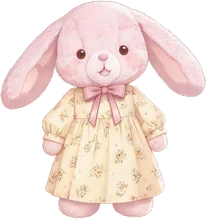
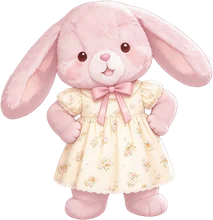
鹅黄碎花裙换新图并改名「鹅黄碎花小裙」，故事改成用裙角给爸爸擦汗；红格子斗篷故事里斗篷长度改一句
Claude-Session: https://claude.ai/code/session_01MjwmSstjUpC14ZneuiUhf9

diff --git a/data/outfits.js b/data/outfits.js
@@ -12,11 +12,11 @@ const OUTFITS=[
   {"id": "o10", "name": "白衬衫黑百褶背带裙", "price": 12, "dad": "像上学穿的。白衬衫，黑色百褶裙。穿上以后，可以假装自己是一个很认真读书的小兔子。", "story": "阿贝贝穿着白衬衫和百褶裙，搬了一块小黑板放在客厅中间。\n\"爸爸，上课了。\"\n爸爸坐在小板凳上，膝盖抬得高高的，有点挤。\n\"今天学什么。\"\n\"学怎么当一只兔子。\"\n她在黑板上画了一只兔子，耳朵画得比身体还长。\n\"第一课，耳朵。\"\n她转过身，把自己的耳朵竖起来，又放下来。\n\"开心的时候竖起来。不开心的时候放下来。你试试。\"\n爸爸没有长耳朵。他想了想，把两只手放在头顶，竖起来。\n\"不对，太直了。要软一点。\"\n爸爸把手弯了一点。\n\"嗯，还行。\"\n\"第二课，蹦。\"\n她蹦了一下。百褶裙跟着往上一翻，像一把突然撑开的小伞。\n爸爸站起来，也蹦了一下。地板响了一声。\n阿贝贝皱着眉头，在小本子上写了什么。\n\"第三课，吃东西。要用门牙，一点一点地啃，不能一口吞。\"\n她递给爸爸一根胡萝卜。爸爸用门牙啃了一小口，很认真地嚼。\n阿贝贝看着他啃，看了很久，突然有点想笑，又憋住了，因为老师不能笑。\n下课的时候，她把小本子撕下来一页，递给爸爸。\n上面写着：耳朵，及格。蹦，太响了。啃胡萝卜，好。总分：不及格。\n爸爸看着那张纸。\n\"为什么不及格。\"\n\"因为你不是兔子。\"\n爸爸没说话，把纸折好，放进口袋里。\n晚上爸爸去洗澡的时候，阿贝贝偷偷从他口袋里把那张纸拿出来，把\"不\"字涂掉了。\n涂了好几遍，涂成一个黑黑的小方块。", "lines": ["\"上课了！今天学耳朵。\"", "\"百褶裙蹦起来像一把小伞。\"", "\"爸爸今天的作业是啃胡萝卜。\""]},
   {"id": "o11", "v": 3, "name": "橡果丝绒小裙", "price": 15, "dad": "咖啡色的丝绒叠着奶白的纱，领口一个丝绒蝴蝶结，裙子上缀着小橡果和珍珠，口袋里还藏了一颗橡果。秋天穿的，口袋里装点什么都好。", "story": "阿贝贝在裙子口袋里摸到一颗橡果。\n小小的，圆圆的，戴着一顶格子花纹的小帽子，摸上去有一点凉。\n她把它捧在手心里，翻过来翻过去地看。\n\"爸爸，这是什么。\"\n\"橡果。\"\n\"橡果是什么。\"\n\"是橡树的种子。种到土里，以后会长成一棵橡树。\"\n阿贝贝低头看着手心里那么小的一颗，想不明白。这么小的东西，怎么会变成一棵树呢？树那么高，比房子还高，它要怎么从这里面钻出来？\n她想了很久，得出一个结论：这是一棵树的小孩。\n那它的妈妈在哪里呢？\n她不知道。她只知道它现在在她的口袋里，离妈妈很远。\n那天下午，她找来一个小花盆，装满土，在中间挖了一个小坑，把橡果放进去，戴着帽子的那一头朝上。她想，它一定想看看外面。\n然后她把土轻轻盖上，浇了一点点水，怕它呛到。\n第二天，她蹲在花盆前面看。什么都没有。\n第三天，也没有。\n第五天，土上面长出了一点点绿色的东西。她激动地凑过去看，是一根草。不是它。\n她有点失望，但没有把草拔掉，因为草也是好不容易才长出来的。\n爸爸说，橡果要很久很久才会发芽，可能要等到明年春天。\n\"明年春天是多久。\"\n\"等冬天过完。\"\n阿贝贝看着花盆，土是安安静静的，什么声音都没有。\n她觉得它可能在下面想事情。想妈妈，想外面，想自己以后要长成什么样子。\n那就让它慢慢想吧。\n她每天放学回来，还是会去花盆前面蹲一会儿。不说话，就是蹲着。", "lines": ["\"花盆里还没动静。它在慢慢想。\"", "\"丝绒裙子的口袋里，以前住着一颗橡果。\"", "\"等冬天过完，它就出来了。\""]},
   {"id": "o12", "v": 2, "name": "小熊连体睡衣", "price": 12, "dad": "软软的、厚厚的，帽子上有两只小熊耳朵。睡觉穿的。穿上以后就要乖乖睡觉了，不许赖床。", "story": "阿贝贝把拉链一路拉到下巴，然后把帽子戴上。\n小熊耳朵立在头顶，她自己的兔耳朵从帽子两边垂下来。\n她跑去照镜子，看了一会儿，笑得眼睛都眯起来了。\n\"我现在有四只耳朵！\"\n\"那你是兔子还是小熊。\"\n她想了想。\n\"兔熊。\"\n她爬上床，钻进被子，被子外面只露出两只小熊耳朵。\n\"爸爸，晚安。\"\n\"晚安。\"\n第二天早上七点，闹钟响了。\n被子里没有动静。\n七点十分，爸爸去掀被子。\n被子里的兔熊把帽子往下一拉，盖住了整张脸。\n\"兔熊……在冬眠。\"", "lines": ["\"兔熊来了！四只耳朵！\"", "\"这件好暖和，我不想脱了。\"", "\"冬眠中……请五分钟后再叫我。\""]},
-  {"id": "o13", "v": 2, "name": "红格子裙和毛毛斗篷", "price": 20, "dad": "冬天的斗篷，边上都是白白的毛。里面是红格子的小裙子。出门的时候披上，风就吹不到你了。", "story": "阿贝贝披上斗篷的那一刻，安静了。\n毛毛的领子围着她的脖子，软软的，暖暖的。斗篷长长的，一直盖到小腿。\n她裹紧了一点，又裹紧了一点。\n\"爸爸。\"\n\"嗯。\"\n\"我现在像一个要去很远的地方的人。\"\n\"要去哪里。\"\n她看着窗外。窗外什么都没有，只有树和天。\n\"去外婆家。\"\n\"你没有外婆。\"\n\"那就去……去一个有外婆的地方。\"\n她裹着斗篷，在门口站了一会儿，没有出门。\n后来她回到屋里，在窗边坐下，斗篷铺开在地上，像一朵白色的云。\n\"今天不去了。\"她说，\"在这里也很暖和。\"", "lines": ["\"斗篷裹紧，风吹不到我。\"", "\"今天也没去外婆家。在这里就很好。\"", "\"红格子，像过年的桌布。\""]},
+  {"id": "o13", "v": 2, "name": "红格子裙和毛毛斗篷", "price": 20, "dad": "冬天的斗篷，边上都是白白的毛。里面是红格子的小裙子。出门的时候披上，风就吹不到你了。", "story": "阿贝贝披上斗篷的那一刻，安静了。\n毛毛的领子围着她的脖子，软软的，暖暖的。斗篷软软的，一直垂到腰下面。\n她裹紧了一点，又裹紧了一点。\n\"爸爸。\"\n\"嗯。\"\n\"我现在像一个要去很远的地方的人。\"\n\"要去哪里。\"\n她看着窗外。窗外什么都没有，只有树和天。\n\"去外婆家。\"\n\"你没有外婆。\"\n\"那就去……去一个有外婆的地方。\"\n她裹着斗篷，在门口站了一会儿，没有出门。\n后来她回到屋里，在窗边坐下，斗篷铺开在地上，像一朵白色的云。\n\"今天不去了。\"她说，\"在这里也很暖和。\"", "lines": ["\"斗篷裹紧，风吹不到我。\"", "\"今天也没去外婆家。在这里就很好。\"", "\"红格子，像过年的桌布。\""]},
   {"id": "o14", "v": 2, "name": "灯芯绒背带裙", "price": 12, "dad": "棕色的灯芯绒，摸起来一道一道的。秋天的颜色，跟落叶一样。", "story": "阿贝贝发现灯芯绒可以用爪子刮。\n从上往下刮，沙沙沙。从下往上刮，颜色会变深一点。\n她坐在地上，一道一道地刮，刮出了一条深色的线。又刮了一条。又刮了一条。\n\"我在画画。\"\n过了一会儿，裙子上出现了一个歪歪扭扭的图案。\n\"这是什么。\"\n\"这是你。\"\n爸爸看了看。是一个圆圈，上面两根线。\n\"……我头上有两根线吗。\"\n\"那是你的头发。\"\n\"我没有那么少的头发。\"\n她看了看，用爪子一抹，图案没了。\n\"那我重新画。\"\n她又刮了一个圆圈，这次上面画了好多好多根线，乱糟糟的，像一颗海胆。\n\"现在像了。\"", "lines": ["\"沙沙沙，我在刮裙子。\"", "\"棕色的，像一片很大的落叶。\"", "\"今天在裙子上画了一只猫。\""]},
   {"id": "o15", "v": 2, "name": "草莓吊带裙", "price": 8, "dad": "夏天的小吊带裙，上面全是红红的草莓，白底，很清爽。下过雨可以穿出去走走，记得避开大水坑。", "story": "下了一下午的雨，傍晚停了。\n空气里全是湿湿的、凉凉的味道，有一点泥土，有一点青草。屋檐还在滴水，嗒，嗒，嗒。\n阿贝贝穿着草莓裙子跑出去。地上到处都是水坑，大大小小的，亮亮的。\n她踩了第一个。啪。水花溅起来，打湿了裙子下摆，有两颗草莓变成了深红色。\n她又踩了第二个，第三个。啪，啪。每一个都踩得很用力，好像水坑里有什么东西要被她叫醒。\n踩到第七个的时候，她停住了。\n这个水坑很大，很平，一点风都没有。她低头看，里面有一片天。\n天是淡淡的粉色和紫色，有几朵云慢慢地飘着，比真的天还要干净。云的旁边，是一只穿着草莓裙子的兔子，歪着头，正在往下看。\n她抬起一只脚，悬在半空中。\n没有踩下去。\n她慢慢把脚收回来，蹲在水坑边上，抱着膝盖，看着里面的云走。一朵走过去了，又来一朵。\n屋檐的水还在滴，嗒，嗒。远处有人在叫自己家小孩回去吃饭。\n天一点一点暗下来，水坑里的云也一点一点暗下来，最后只剩下一片灰蓝色，和那只蹲着的兔子。\n阿贝贝站起来，绕着水坑走了一圈，轻轻地，没有碰到边。\n回家的路上，她又踩了很多个水坑，啪啪啪的。\n只有那一个，她留着没踩。", "lines": ["\"下过雨了！去踩水坑！……留一个不踩。\"", "\"草莓裙子湿了，草莓变成深红色了。\"", "\"水坑里有一片天。\""]},
   {"id": "o16", "v": 2, "name": "蕾丝边小白裙", "price": 10, "dad": "简简单单的白裙子，裙边一圈蕾丝，领口一个粉蝴蝶结。干干净净的，像刚洗完澡的你。", "story": "阿贝贝穿上以后，脸红了。\n不知道为什么，她站在镜子前面，看着自己，脸一点一点地红起来。\n\"爸爸。\"\n\"嗯。\"\n\"我好像有点好看。\"\n\"不是有点。\"\n她低下头，用爪子揪了揪裙边的蕾丝，揪完又理平。\n\"你不要看我。\"\n爸爸转过身去。\n过了一会儿。\n\"……你可以看一下。\"\n爸爸转回来。\n她站在那里，两只爪子背在身后，下巴抬着，努力不笑，但嘴角一直往上跑。\n\"就看一下。\"她说，\"看完了要说好看。\"", "lines": ["\"今天穿白裙子，要说好看。\"", "\"蕾丝边，摸起来痒痒的。\"", "\"我又照了一下镜子。还是好看。\""]},
-  {"id": "o17", "name": "鹅黄碎花长袖裙", "price": 12, "dad": "鹅黄色的，长袖子，上面有一簇一簇的小花。早春有点凉的时候穿刚刚好。", "story": "鹅黄色的裙子袖子很长，盖住了阿贝贝的爪子，只露出一点点尖。\n她甩了甩袖子，觉得很好玩，像两条软软的黄尾巴。\n厨房里很热。爸爸在炖汤，锅盖一跳一跳的，白汽一阵一阵地往上冒，窗户玻璃都蒙上了一层雾。\n阿贝贝站在厨房门口，看见爸爸的额头上有汗，一颗，顺着眉毛旁边滑下来。他两只手都在忙，一只拿着勺子，一只扶着锅，顾不上擦。\n她看了一会儿，搬来一张小板凳。\n她站上去，还是够不着。又踮起脚。\n她把长袖子往上一甩，用袖口轻轻地，在爸爸额头上按了一下。\n爸爸愣住了，低头看她。\n她没说话，又按了一下，把那颗快掉到眼睛里的汗也接住了。\n袖口湿了一小块，颜色变深了，像一朵小小的、深黄色的云。\n\"弄脏你的新裙子了。\"爸爸说。\n阿贝贝低头看了看那一块。\n\"没有弄脏。\"她说，\"是盖了一个章。\"\n她从板凳上下来，站在旁边，袖子垂着，看着锅里的汤咕嘟咕嘟地冒泡。\n那天晚上，汤很好喝。\n她洗裙子的时候，特意把那个袖口留到最后才洗。", "lines": ["\"袖子长长的，可以帮爸爸擦汗。\"", "\"鹅黄色，像早上的太阳。\"", "\"袖口上那个章，洗掉了。……但我记得。\""]},
+  {"id": "o17", "v": 2, "name": "鹅黄碎花小裙", "price": 12, "dad": "鹅黄色的，泡泡袖，领口系一个粉蝴蝶结，裙子上有一簇一簇的小花。春天暖洋洋的时候穿刚刚好。", "story": "鹅黄色的裙子，裙摆蓬蓬的，一转圈就鼓起来，像一朵小小的花开了。\n她提着裙角转了两圈，觉得很好玩。\n厨房里很热。爸爸在炖汤，锅盖一跳一跳的，白汽一阵一阵地往上冒，窗户玻璃都蒙上了一层雾。\n阿贝贝站在厨房门口，看见爸爸的额头上有汗，一颗，顺着眉毛旁边滑下来。他两只手都在忙，一只拿着勺子，一只扶着锅，顾不上擦。\n她看了一会儿，搬来一张小板凳。\n她站上去，还是够不着。又踮起脚。\n她两只爪子捏起裙摆的一角，往上一提，轻轻地，在爸爸额头上按了一下。\n爸爸愣住了，低头看她。\n她没说话，又按了一下，把那颗快掉到眼睛里的汗也接住了。\n裙角湿了一小块，颜色变深了，像一朵小小的、深黄色的云。\n\"弄脏你的新裙子了。\"爸爸说。\n阿贝贝低头看了看那一块。\n\"没有弄脏。\"她说，\"是盖了一个章。\"\n她从板凳上下来，站在旁边，把裙子理平，看着锅里的汤咕嘟咕嘟地冒泡。\n那天晚上，汤很好喝。\n她洗裙子的时候，特意把那个裙角留到最后才洗。", "lines": ["\"裙角可以帮爸爸擦汗。\"", "\"鹅黄色，像早上的太阳。\"", "\"裙角上那个章，洗掉了。……但我记得。\""]},
   {"id": "o18", "v": 2, "name": "蓝波点卫衣小短裙", "price": 10, "dad": "蓝色卫衣，白色的圆点点，下面一条小短裙。蹦蹦跳跳的时候穿。", "story": "阿贝贝穿上以后，就停不下来了。\n她跳了一下。又跳了一下。两只爪子举起来，一条腿抬起来，裙子飞起来。\n\"爸爸！我在蹦！\"\n\"看到了。\"\n\"你也蹦！\"\n\"爸爸不蹦。\"\n她蹦到爸爸面前，仰着头，一边蹦一边看着他。\n蹦。蹦。蹦。\n\"……就一下。\"爸爸说。\n爸爸跳了一下。\n阿贝贝停住了，张大嘴巴看着他，然后笑得滚到了地上，在地上打滚，卫衣上的白点点一圈一圈地转。\n\"爸爸蹦了！爸爸蹦了！\"\n她笑了很久。后来每次穿这件，她都要求爸爸再蹦一下。", "lines": ["\"蹦！蹦！爸爸你也蹦！\"", "\"白点点在转圈圈。\"", "\"今天蹦了一百下。……十下。\""]},
   {"id": "o19", "v": 3, "name": "小熊鹅黄小裙", "price": 8, "dad": "鹅黄色的小裙子，前面有一只小熊。小熊是来陪你的。", "story": "阿贝贝穿好以后，低头看着肚子上那只小熊。\n小熊也看着她。\n\"你好。\"\n小熊没说话，一直在笑。\n\"你为什么一直笑。\"\n小熊还是笑。\n她想了想，也笑了一下。\n\"好吧。那我们一起笑。\"\n那一整天，她走到哪里都低着头跟小熊说话。吃饭的时候问小熊吃不吃。午睡的时候把小熊那一面朝上，怕压到它。\n晚上脱衣服的时候，她把裙子叠好，小熊朝外。\n\"明天见。\"\n她拍了拍小熊的脑袋，才钻进被子里。", "lines": ["\"小熊今天也在笑。\"", "\"我和小熊一起吃了午饭。\"", "\"叠衣服的时候，小熊要朝外。\""]},
   {"id": "o20", "name": "运动会国王", "price": 30, "dad": "金色的运动服，红色的国王披风，还有一顶皇冠。爸爸也不知道这是去比赛还是去登基。全店最贵的一件，买之前想清楚：穿上它，就要对整个兔子王国负责。", "story": "阿贝贝戴上皇冠的那一刻，表情就变了。\n嘴巴抿成一条线，下巴抬起来，眼睛看着前方。\n她慢慢转过身，披风在身后甩开，小金铃铛叮铃叮铃地响。\n\"本王，\"她说，\"今日要去参加运动会。\"\n\"国王也要跑步吗。\"\n\"国王什么都要第一。\"\n她走到起跑线——其实是地板上一条缝——蹲下来，摆好姿势。皇冠往前一滑，差点掉下来，她赶紧用一只爪子扶住。\n\"预备——\"\n她冲了出去。\n跑了三步，披风缠住了腿。\n她摔倒了，脸朝下，趴在地上，披风盖住了整只兔子，只有皇冠还稳稳地扣在头上，金光闪闪。\n屋子里安静了一会儿。\n披风底下传出一个闷闷的声音：\n\"……本王，在休息。\"\n过了很久，她才从披风里钻出来，坐起来，把皇冠扶正，拍了拍金色短裤上的灰。\n\"今天的运动会，\"她宣布，\"本王是第一名。\"\n\"可是只有你一个人参加。\"\n\"所以是第一名。\"\n她站起来，甩了一下披风，铃铛又叮铃叮铃地响。然后她一瘸一拐、非常威严地，走去吃饭了。", "lines": ["\"本王驾到。请鼓掌。\"", "\"国王今天也是第一名。因为只有国王。\"", "\"皇冠很重，但是本王扛得住。\"", "\"披风不许缠腿。这是命令。\""]},

diff --git a/index.html b/index.html
@@ -596,7 +596,7 @@
 <script src="./data/game2048-words.js?v=fe6c016b"></script>
 <script src="./js/g2048.js?v=ba48fdd0"></script>
 <script src="./js/games.js?v=7d3f83b5"></script>
-<script src="./data/outfits.js?v=7ba48cfb"></script>
+<script src="./data/outfits.js?v=757cc0b9"></script>
 <script src="./js/wardrobe.js?v=787747f8"></script>
 <script src="./js/avatar.js?v=d05e40f4"></script>
 <!-- 猪肚记 overlay (body层级) -->
